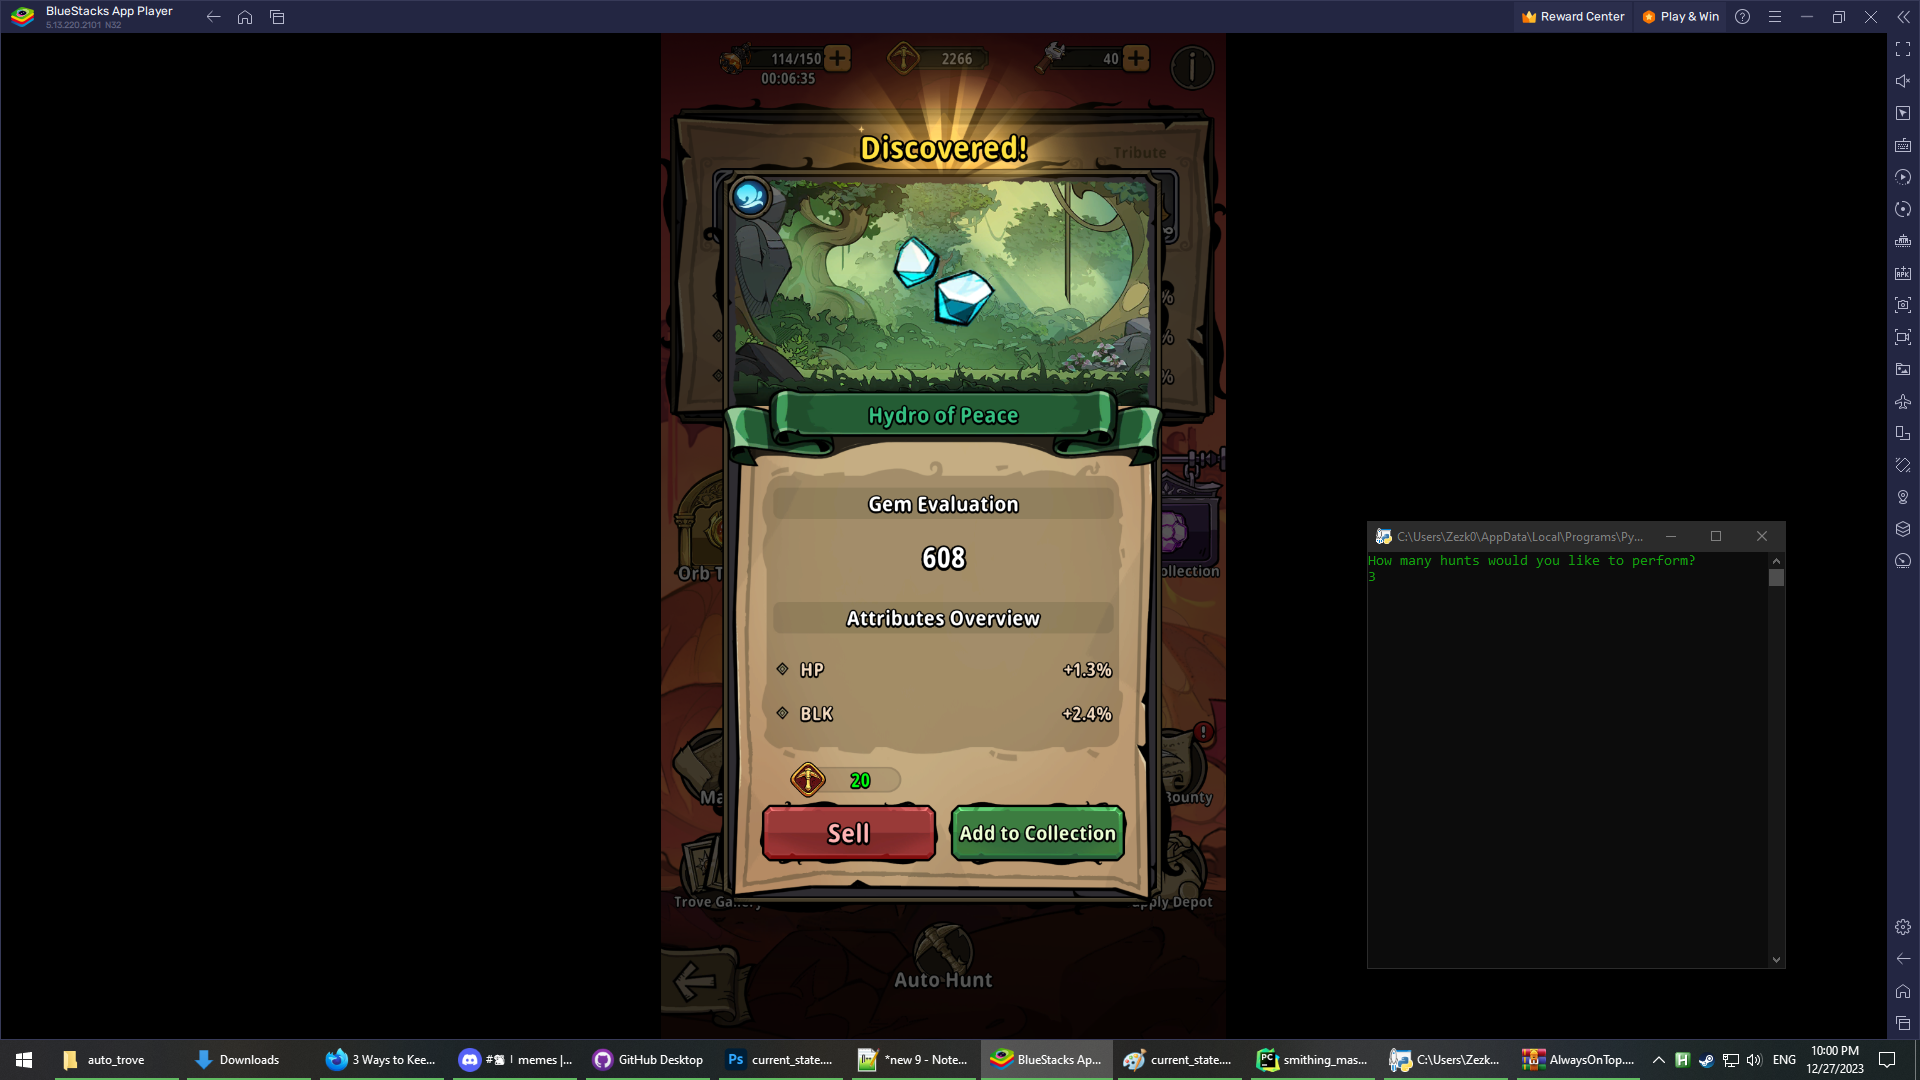
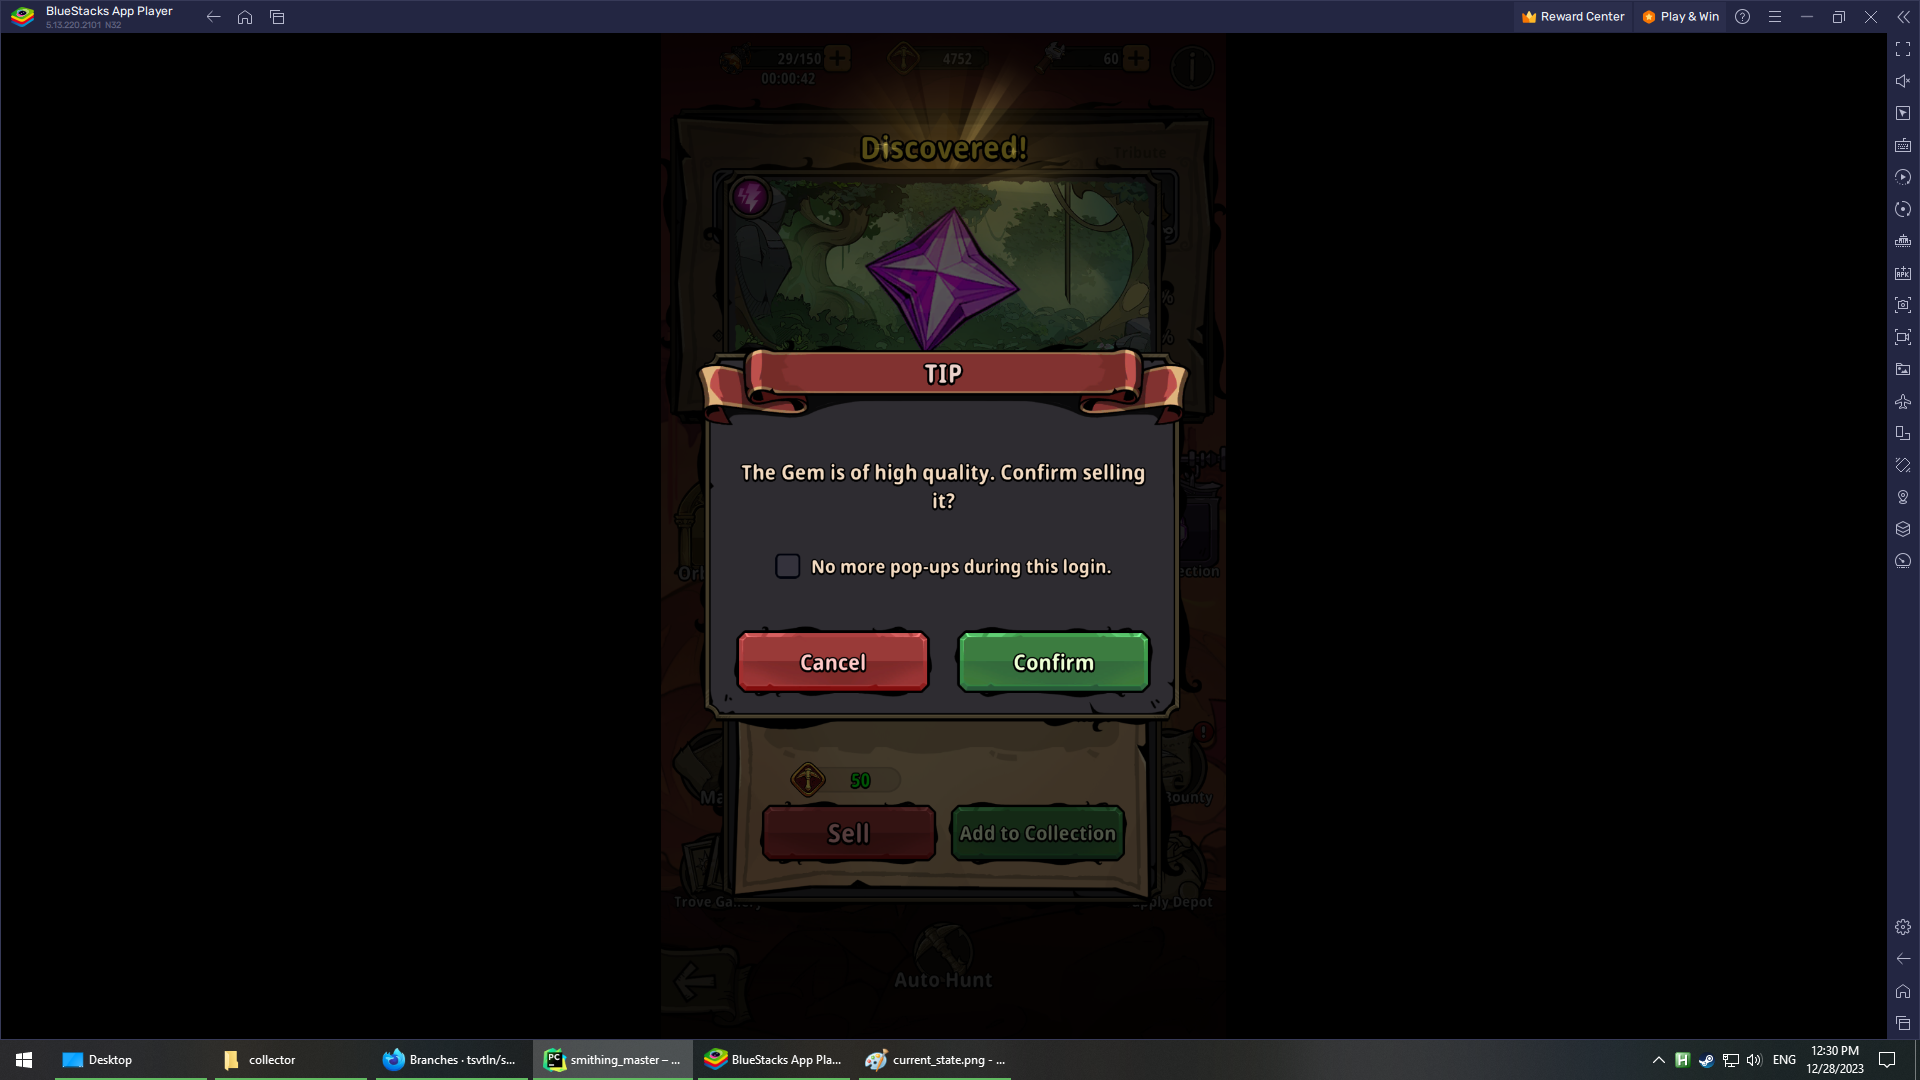
Tip Finder popup handling

Changed region(s): [[0.0938, 0.0306, 0.8438, 1.0], [0.6875, 0.4583, 0.9375, 0.55], [0.0312, 0.9778, 0.0625, 1.0]]

diff --git a/auto_trove/miner/miner.py b/auto_trove/miner/miner.py
@@ -16,6 +16,7 @@ class Miner:
         self.collected_sundries = {}
         self.gem = False
         self.unlucky = False
+        self.tip = False
 
     @staticmethod
     def workdir():
@@ -38,6 +39,10 @@ class Miner:
                 else:
                     # sell item
                     x, y = 924, 831
+                    pyautogui.leftClick(x, y)
+                self.tip_finder()
+                if self.tip:
+                    x, y = 1053, 659
                     pyautogui.leftClick(x, y)
         if self.mine_counter == 0:
             print('Mining operation completed.\n')
@@ -200,3 +205,30 @@ class Miner:
             self.unlucky = True
         else:
             self.unlucky = False
+
+    def tip_finder(self):
+        """ Find if there's a tip pop-up."""
+        self.take_screenshot()
+        tip_region = (901, 357, 976, 387)
+        open_state_screenshot = Image.open(os.path.join(self.workdir, 'collector', 'current_state.png'))
+        crop_tip_region = open_state_screenshot.crop(tip_region)
+        crop_tip_region.save(os.path.join(self.workdir, 'collector', 'tip_region.png'))
+
+        load_tip_compare = Image.open(os.path.join(self.workdir, 'collector', 'tip_region.png'))
+        load_cropped_tip = Image.open(os.path.join(self.workdir, 'collector', 'comp', 'tip_compare.png'))
+
+        # Convert to np
+        load_tip_compare_np = np.array(load_tip_compare)
+        load_cropped_tip_np = np.array(load_cropped_tip)
+
+        # Calculate Structural Similarity Index (SSI) with a smaller win_size
+        smaller_side = min(load_cropped_tip_np.shape[0], load_cropped_tip_np.shape[1],
+                           load_tip_compare_np.shape[0], load_tip_compare_np.shape[1])
+        win_size = min(smaller_side, 3)
+        similarity_index, _ = ssim(load_tip_compare_np, load_cropped_tip_np, win_size=win_size, full=True)
+        similarity_index = float(f"{similarity_index:.2f}")
+
+        if similarity_index >= 0.80:
+            self.tip = True
+        else:
+            self.tip = False
